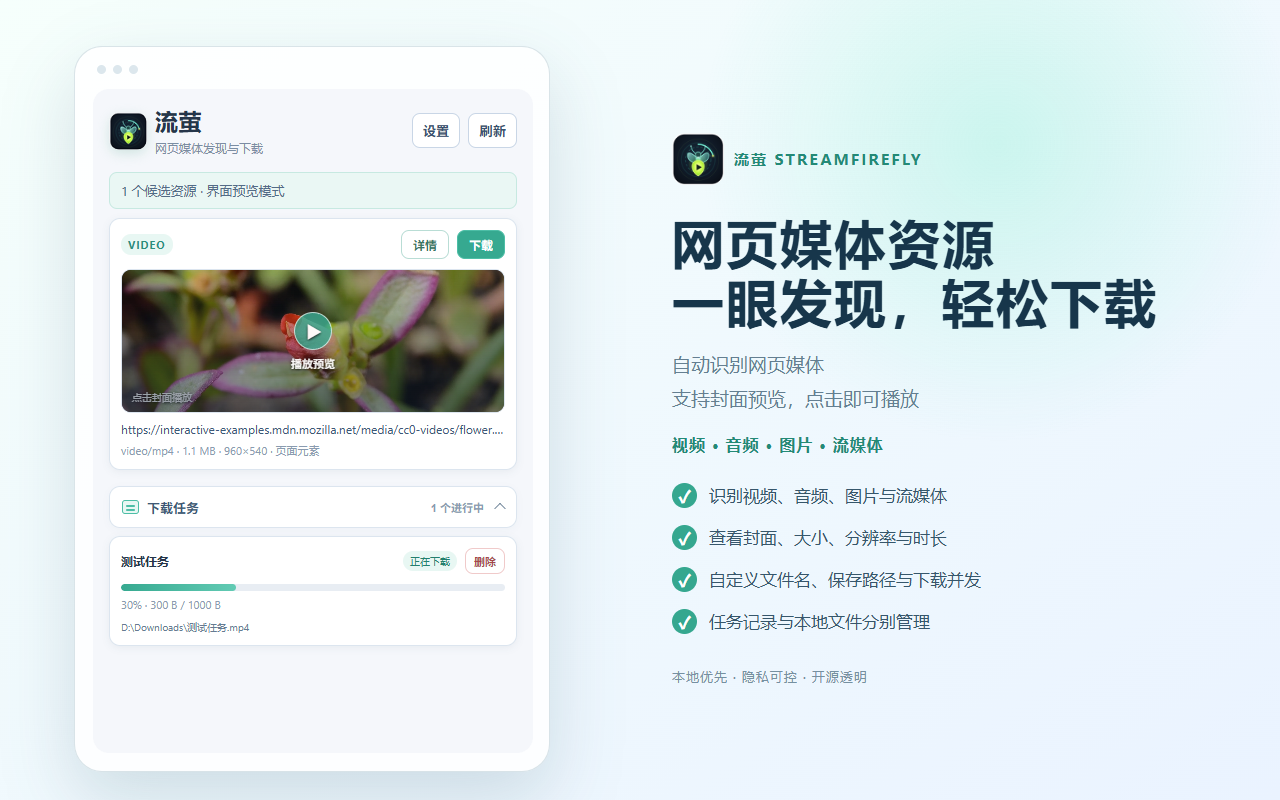
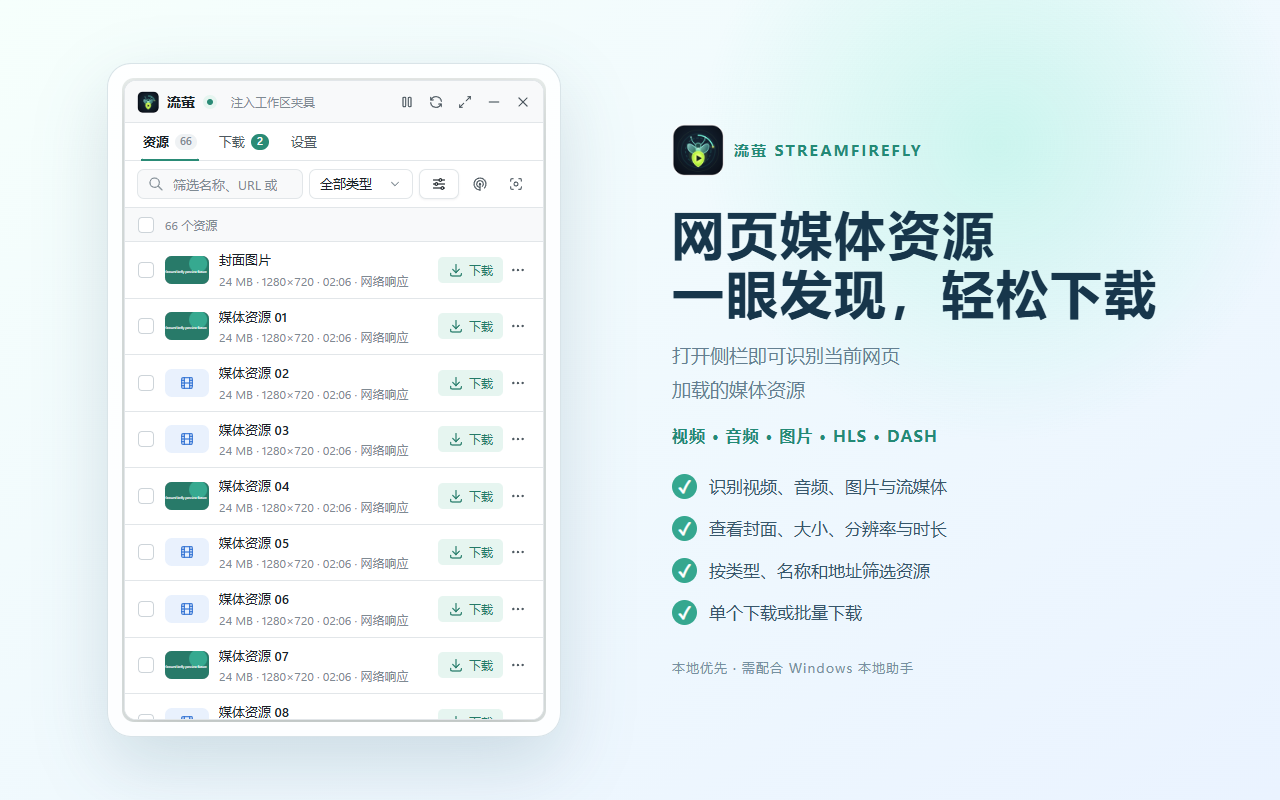
更新 Chrome 商店截图与上架资料

diff --git a/store-assets/screenshot-popup.html b/store-assets/screenshot-popup.html
@@ -3,45 +3,24 @@
 <head>
   <meta charset="utf-8">
   <meta name="viewport" content="width=1280, initial-scale=1">
-  <title>流萤界面截图</title>
-  <style>
-    * { box-sizing: border-box; }
-    html, body { width: 1280px; height: 800px; margin: 0; overflow: hidden; }
-    body { font-family: "Microsoft YaHei", system-ui, sans-serif; color: #17364b; background: radial-gradient(circle at 78% 18%, rgba(126, 236, 206, .32), transparent 25%), linear-gradient(145deg, #f6fffc, #eaf3ff); }
-    main { height: 100%; padding: 46px 74px; display: grid; grid-template-columns: 520px 1fr; align-items: center; gap: 78px; }
-    .browser { width: 476px; padding: 18px; border: 1px solid rgba(87, 130, 151, .22); border-radius: 28px; background: rgba(255,255,255,.86); box-shadow: 0 28px 70px rgba(42, 91, 112, .18); }
-    .bar { height: 24px; display: flex; align-items: flex-start; gap: 7px; padding-left: 4px; }
-    .bar span { width: 9px; height: 9px; border-radius: 50%; background: #dce7ed; }
-    iframe { display: block; width: 440px; height: 664px; border: 0; border-radius: 16px; background: white; }
-    .mark { display: inline-flex; align-items: center; gap: 10px; color: #238a76; font-size: 15px; font-weight: 700; letter-spacing: 2px; }
-    .mark img { width: 52px; height: 52px; border-radius: 13px; }
-    h1 { margin: 24px 0 16px; font-size: 52px; line-height: 1.14; letter-spacing: 2px; }
-    .lead { margin: 0 0 18px; color: #647f91; font-size: 19px; line-height: 1.8; }
-    .scope { margin: 0 0 28px; color: #238a76; font-size: 16px; font-weight: 700; letter-spacing: 1px; }
-    ul { margin: 0; padding: 0; list-style: none; display: grid; gap: 17px; }
-    li { display: flex; gap: 12px; align-items: center; color: #36566b; font-size: 17px; }
-    li::before { content: "✓"; display: grid; place-items: center; width: 25px; height: 25px; border-radius: 50%; color: white; background: #35a78f; font-weight: 800; }
-    .beta { margin-top: 34px; color: #7590a1; font-size: 13px; letter-spacing: 1px; }
-  </style>
+  <title>流萤商店截图</title>
+  <link rel="stylesheet" href="screenshot.css">
 </head>
 <body>
-  <main>
-    <section class="browser">
-      <div class="bar"><span></span><span></span><span></span></div>
-      <iframe src="../extension/popup.html" title="流萤扩展界面"></iframe>
-    </section>
+  <main class="narrow">
+    <section class="shot"><img src="../docs/images/panel-resources.png" alt="流萤扩展界面"></section>
     <section>
       <div class="mark"><img src="../extension/icon128.png" alt="">流萤 STREAMFIREFLY</div>
       <h1>网页媒体资源<br>一眼发现，轻松下载</h1>
-      <p class="lead">自动识别网页媒体<br>支持封面预览，点击即可播放</p>
-      <p class="scope">视频 · 音频 · 图片 · 流媒体</p>
+      <p class="lead">打开侧栏即可识别当前网页<br>加载的媒体资源</p>
+      <p class="scope">视频 · 音频 · 图片 · HLS · DASH</p>
       <ul>
         <li>识别视频、音频、图片与流媒体</li>
         <li>查看封面、大小、分辨率与时长</li>
-        <li>自定义文件名、保存路径与下载并发</li>
-        <li>任务记录与本地文件分别管理</li>
+        <li>按类型、名称和地址筛选资源</li>
+        <li>单个下载或批量下载</li>
       </ul>
-      <div class="beta">本地优先 · 隐私可控 · 开源透明</div>
+      <div class="foot">本地优先 · 需配合 Windows 本地助手</div>
     </section>
   </main>
 </body>

diff --git a/store-assets/screenshot.css b/store-assets/screenshot.css
@@ -1,0 +1,20 @@
+* { box-sizing: border-box; }
+html, body { width: 1280px; height: 800px; margin: 0; overflow: hidden; }
+body { font-family: "Microsoft YaHei", system-ui, sans-serif; color: #17364b; background: radial-gradient(circle at 78% 18%, rgba(126, 236, 206, .32), transparent 25%), linear-gradient(145deg, #f6fffc, #eaf3ff); }
+main { height: 100%; display: grid; align-items: center; }
+main.narrow { padding: 46px 74px; grid-template-columns: 520px 1fr; gap: 78px; }
+main.wide { padding: 46px 56px; grid-template-columns: 1fr 320px; gap: 44px; }
+.shot { justify-self: center; padding: 14px; border: 1px solid rgba(87, 130, 151, .22); border-radius: 24px; background: rgba(255,255,255,.86); box-shadow: 0 28px 70px rgba(42, 91, 112, .18); }
+.shot img { display: block; border-radius: 12px; }
+.narrow .shot img { width: 424px; height: 644px; }
+.wide .shot img { max-width: 760px; max-height: 680px; }
+.mark { display: inline-flex; align-items: center; gap: 10px; color: #238a76; font-size: 15px; font-weight: 700; letter-spacing: 2px; }
+.mark img { width: 52px; height: 52px; border-radius: 13px; }
+h1 { margin: 24px 0 16px; font-size: 52px; line-height: 1.14; letter-spacing: 2px; }
+.wide h1 { font-size: 40px; }
+.lead { margin: 0 0 18px; color: #647f91; font-size: 19px; line-height: 1.8; }
+.scope { margin: 0 0 28px; color: #238a76; font-size: 16px; font-weight: 700; letter-spacing: 1px; }
+ul { margin: 0; padding: 0; list-style: none; display: grid; gap: 17px; }
+li { display: flex; gap: 12px; align-items: center; color: #36566b; font-size: 17px; }
+li::before { content: "✓"; flex: none; display: grid; place-items: center; width: 25px; height: 25px; border-radius: 50%; color: white; background: #35a78f; font-weight: 800; }
+.foot { margin-top: 34px; color: #7590a1; font-size: 13px; letter-spacing: 1px; }

diff --git a/store-assets/screenshot-downloads.html b/store-assets/screenshot-downloads.html
@@ -1,0 +1,26 @@
+<!doctype html>
+<html lang="zh-CN">
+<head>
+  <meta charset="utf-8">
+  <meta name="viewport" content="width=1280, initial-scale=1">
+  <title>流萤商店截图</title>
+  <link rel="stylesheet" href="screenshot.css">
+</head>
+<body>
+  <main class="narrow">
+    <section class="shot"><img src="../docs/images/panel-downloads.png" alt="流萤扩展界面"></section>
+    <section>
+      <div class="mark"><img src="../extension/icon128.png" alt="">流萤 STREAMFIREFLY</div>
+      <h1>下载任务<br>进度一目了然</h1>
+      <p class="lead">由本机下载助手执行<br>多任务排队、分片并发下载</p>
+      <ul>
+        <li>实时显示速度、进度与分片状态</li>
+        <li>暂停、继续与失败重试</li>
+        <li>直播录制随时停止</li>
+        <li>任务记录保存在本机</li>
+      </ul>
+      <div class="foot">本地优先 · 需配合 Windows 本地助手</div>
+    </section>
+  </main>
+</body>
+</html>

diff --git a/store-assets/screenshot-hls.html b/store-assets/screenshot-hls.html
@@ -1,0 +1,26 @@
+<!doctype html>
+<html lang="zh-CN">
+<head>
+  <meta charset="utf-8">
+  <meta name="viewport" content="width=1280, initial-scale=1">
+  <title>流萤商店截图</title>
+  <link rel="stylesheet" href="screenshot.css">
+</head>
+<body>
+  <main class="wide">
+    <section class="shot"><img src="../docs/images/hls-parser.png" alt="流萤扩展界面"></section>
+    <section>
+      <div class="mark"><img src="../extension/icon128.png" alt="">流萤 STREAMFIREFLY</div>
+      <h1>HLS 媒体解析</h1>
+      <p class="lead">下载前选择画质和范围<br>输出常见 MP4 文件</p>
+      <ul>
+        <li>选择清晰度、音轨与字幕</li>
+        <li>按时间或切片截取片段</li>
+        <li>合并为 MP4，无需转码</li>
+        <li>不支持 DRM 加密内容</li>
+      </ul>
+      <div class="foot">本地优先 · 需配合 Windows 本地助手</div>
+    </section>
+  </main>
+</body>
+</html>

diff --git a/store-assets/screenshot-workspace.html b/store-assets/screenshot-workspace.html
@@ -1,0 +1,26 @@
+<!doctype html>
+<html lang="zh-CN">
+<head>
+  <meta charset="utf-8">
+  <meta name="viewport" content="width=1280, initial-scale=1">
+  <title>流萤商店截图</title>
+  <link rel="stylesheet" href="screenshot.css">
+</head>
+<body>
+  <main class="wide">
+    <section class="shot"><img src="../docs/images/workspace.png" alt="流萤扩展界面"></section>
+    <section>
+      <div class="mark"><img src="../extension/icon128.png" alt="">流萤 STREAMFIREFLY</div>
+      <h1>悬浮工作区</h1>
+      <p class="lead">在网页内展开完整工作区<br>批量选择、查看详情</p>
+      <ul>
+        <li>资源列表与详情并排查看</li>
+        <li>批量下载、复制地址</li>
+        <li>交给已配置的外部工具</li>
+        <li>可最大化或收起</li>
+      </ul>
+      <div class="foot">本地优先 · 需配合 Windows 本地助手</div>
+    </section>
+  </main>
+</body>
+</html>

diff --git a/store-assets/README.md b/store-assets/README.md
@@ -1,29 +1,104 @@
-# Chrome Web Store 内测资料
+# Chrome Web Store 商店资料
 
-发布渠道：Private，测试人员通过 Google 群组管理。
+条目：流萤 StreamFirefly，扩展 ID `ooblmahffkiimlflhdnfojjemlibmhhj`，上传包 `release/StreamFirefly-extension-1.0.0.zip`。公开范围为公开。上传草稿的步骤见 [商店草稿准备](../docs/development/browser-stores.md)。
 
-## 商店文案
+## 商品详情
 
-名称：流萤 StreamFirefly
+名称和摘要取自包内清单，不能在后台修改。
 
-简短说明：本地优先的网页媒体发现、预览与下载工具。
+- 类别：工具
+- 语言：中文（简体）
+- 官方网址：无。首页网址、支持信息页面网址：仓库公开后填写仓库地址和 Issues 地址。
+- 成人内容：关
 
-详细说明：
+说明：
 
-> THIS EXTENSION IS FOR BETA TESTING.
->
-> 流萤可以识别当前网页加载的视频、音频、图片及 HLS/DASH 媒体资源，显示资源大小、分辨率、时长和预览，并通过本机下载助手保存到用户选择的目录。下载任务支持自定义文件名、实时速度和进度、多连接下载以及任务记录管理。
->
-> 流萤不提供云端账号，任务和设置保存在用户本机。Cookie 和 Authorization 只在当前下载期间临时使用，不写入任务历史文件。流萤不绕过 DRM，请仅下载自己拥有版权或已获授权的内容。
+```text
+流萤是本地优先的网页媒体发现与下载工具。打开侧栏或页面内工作区，即可识别当前网页加载的视频、音频、图片以及 HLS、DASH 流媒体，并查看封面、大小、分辨率和时长。
 
-隐私政策：使用仓库中的 `PRIVACY.md`，提交审核前必须确保对应 URL 对商店审核人员和测试用户公开可访问。
+主要功能
+• 识别网页中的视频、音频、图片和流媒体资源，可按类型、名称和地址筛选
+• 预览媒体，查看资源详情，复制资源地址
+• 单个或批量下载，支持自定义文件名和保存目录
+• HLS 解析：下载前选择清晰度、音轨和字幕，或按时间、切片截取片段，合并为 MP4
+• 下载任务实时显示速度和进度，支持暂停、继续、失败重试和直播录制
+• 悬浮工作区：在网页内展开完整的资源列表和详情
+• 可按需把资源交给你自己配置的外部下载工具
 
-## 提交清单
+使用前须知
+下载由 Windows 本地下载助手执行，本扩展需要配合助手使用，目前仅支持 Windows。安装扩展后，请按安装指南安装同版本的本地助手。
 
-- `release/StreamFirefly-extension-0.8.0.zip`；
-- 128×128 扩展图标：`extension/icon128.png`；
-- 440×280 小型宣传图：`store-assets/promo-small.png`；
-- 1280×800 界面截图：`store-assets/screenshot-popup.png`；
-- 隐私实践表单按 `PRIVACY.md` 如实填写；
-- 创建 Private 测试条目并记录商店分配的正式扩展 ID；
-- 使用正式 ID 运行 `tools/prepare-release.ps1`，不要把开发 ID 构建的安装包交给测试人员。
+隐私
+流萤没有云端账号，不向开发者服务器上传浏览记录、下载记录或登录凭据。任务和设置保存在本机。下载所需的 Cookie 和 Authorization 只在下载期间临时使用，不写入任务记录。
+
+流萤不绕过 DRM 或其他版权保护措施。请只下载你拥有版权、已获授权或法律允许下载的内容。
+```
+
+## 图片资源
+
+| 位置 | 文件 | 规格 |
+| --- | --- | --- |
+| 商店图标 | `extension/icon128.png` | 128×128 |
+| 屏幕截图 1 | `store-assets/screenshot-popup.png` | 1280×800，24 位无 alpha |
+| 屏幕截图 2 | `store-assets/screenshot-downloads.png` | 同上 |
+| 屏幕截图 3 | `store-assets/screenshot-workspace.png` | 同上 |
+| 屏幕截图 4 | `store-assets/screenshot-hls.png` | 同上 |
+| 小型宣传图块 | `store-assets/promo-small.png` | 440×280，24 位无 alpha |
+
+顶部宣传图块（1400×560）为可选项，暂不提供。
+
+截图由同名 HTML 模板以 1280×800 视口、缩放比 1 渲染生成，界面图片来自 `docs/images/`。界面更新后，应先重新生成 `docs/images/`，再重新渲染截图。`screenshot-popup.png` 和 `promo-small.png` 会被打进发布包，不要重命名。
+
+## 隐私权
+
+单一用途：
+
+```text
+识别当前网页加载的媒体资源，并按用户操作交给本机下载助手下载。
+```
+
+权限理由：
+
+| 权限 | 理由 |
+| --- | --- |
+| `tabs` | 获取当前标签页的地址和标题，把发现的媒体关联到对应页面，并在页面关闭时清理结果。 |
+| `webNavigation` | 页面导航时清除旧页面的媒体候选，避免把不同页面的资源混在一起。 |
+| `webRequest` | 读取网页请求的 URL、响应类型和大小，用于识别媒体资源，并取得下载所需的请求头。 |
+| `declarativeNetRequest` | 用户播放预览时，临时为媒体请求附加 Referer 等必要请求头，使预览能够加载。 |
+| `storage` | 在本机保存设置、规则和界面状态。 |
+| `scripting` | 在当前页面识别媒体元素和由脚本生成的媒体地址，并在用户打开时注入页面内工作区。 |
+| `nativeMessaging` | 把用户确认的下载任务交给本机安装的流萤下载助手，并接收任务进度。 |
+| `sidePanel` | 在浏览器侧栏中显示资源列表、下载任务和设置。 |
+| `offscreen` | 运行可终止的规则计算 Worker，并在缓存捕捉期间保持与本机助手的连接。 |
+| 主机权限 `http://*/*`、`https://*/*` | 媒体可能出现在任何网站上，扩展需要在用户访问的页面中识别媒体并发起下载。 |
+
+远程代码：否，所有代码都打包在扩展内。
+
+数据使用：如实勾选以下类别，然后勾选三项承诺（不向第三方出售或转让、不用于与单一用途无关的目的、不用于确定信用或贷款资格）：
+
+- 身份验证信息：下载时临时使用的 Cookie 和 Authorization。
+- 网络历史记录：媒体所在页面的地址。
+- 网站内容：网页中的媒体地址和页面元素。
+
+隐私政策网址：仓库公开后填写 `PRIVACY.md` 的公开地址。
+
+## 测试说明
+
+```text
+本扩展需要配合 Windows 本地下载助手使用。
+
+1. 在 Windows 11 上，从 <助手下载地址> 下载 StreamFirefly-1.0.0-windows-x64.zip 并解压。
+2. 在解压目录运行 PowerShell：
+   .\tools\install.ps1 -ChromeExtensionId 'ooblmahffkiimlflhdnfojjemlibmhhj'
+3. 重启 Chrome，打开任意包含视频或图片的网页，例如 https://developer.mozilla.org/en-US/docs/Web/HTML/Element/video
+4. 点击工具栏中的流萤图标打开侧栏，资源列表会显示页面中的媒体；点击“下载”后，可在“下载”页查看任务进度。
+
+不安装助手时，扩展仍可识别和预览媒体，但无法下载。
+```
+
+## 提交审核前
+
+- 仓库公开或另行托管隐私政策，填写隐私政策网址、首页网址和支持信息页面网址。
+- 提供本地助手的公开下载地址，并替换测试说明中的占位符。
+- Chrome Web Store 不允许下载 YouTube 内容，扩展需要先排除 YouTube。
+- 宣传图中的“开源透明”在仓库公开后才成立。
